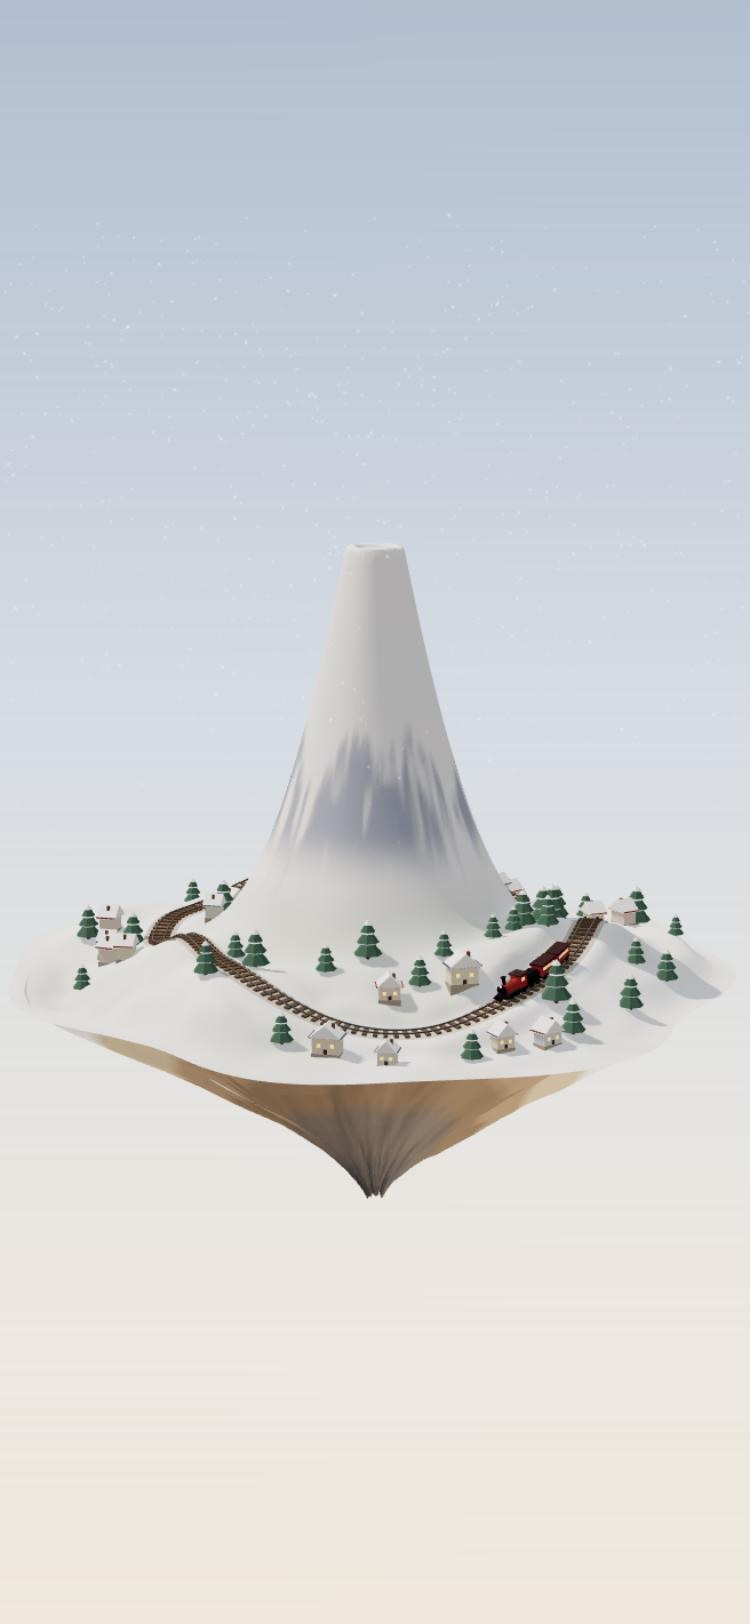
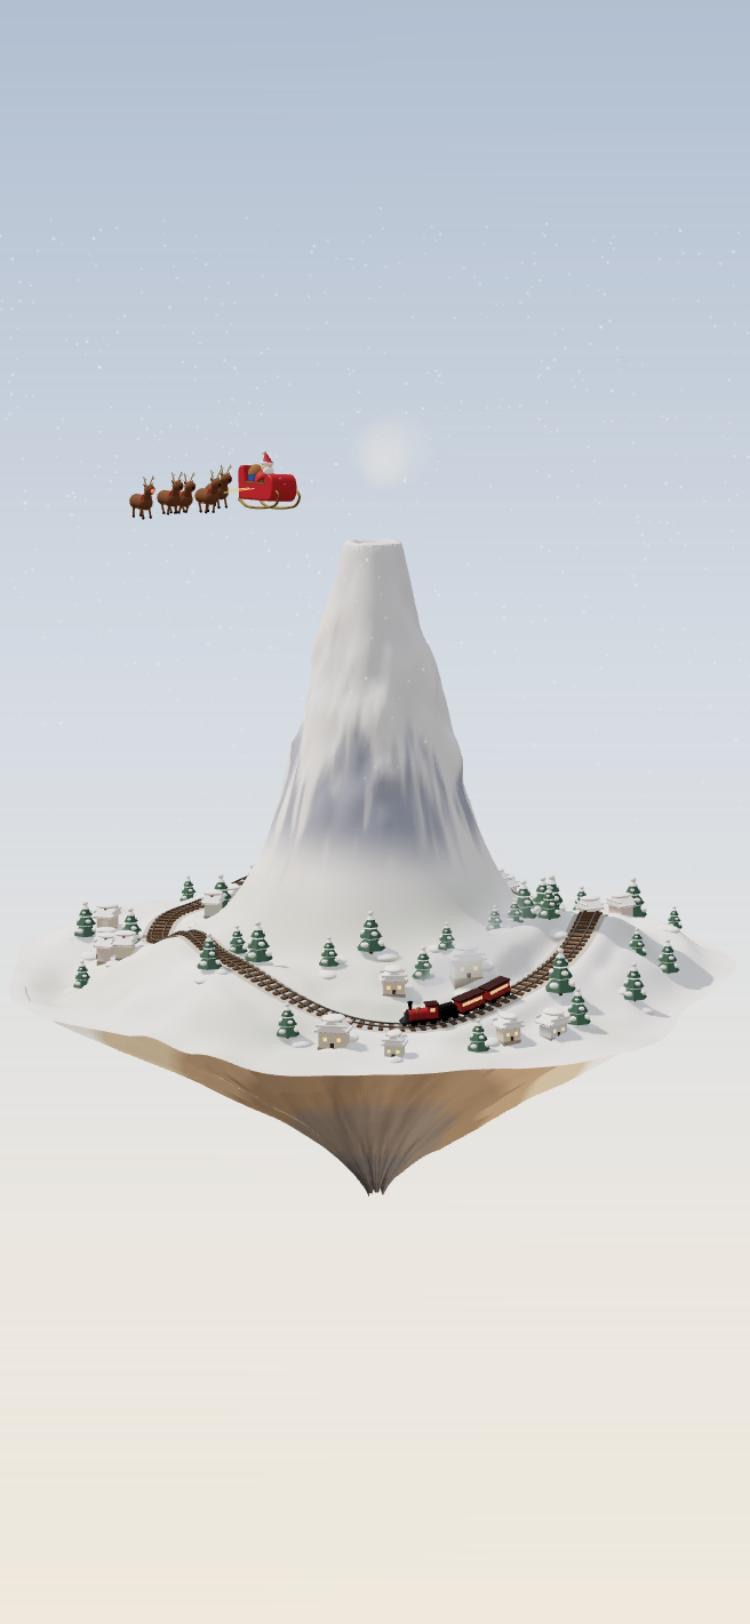
feat: 설산 기차 — 더 소복한 눈(둥근 눈 덩어리·지붕 눈 이불·소나무 눈 뭉치·눈 더미) · 하늘에 루돌프가 끄는 산타 썰매(끌어서 날리기 · 누르면 선물이 눈 위로) · 3D 홈 「🎁 선물 내리기」

diff --git a/public/snow-peak/index.html b/public/snow-peak/index.html
@@ -46,9 +46,9 @@
   <div class="cap">Weather &amp; rails</div>
   <label class="sl">Snowfall <input id="snow" type="range" min="0" max="1" step="0.01" value="0.6"></label>
   <label class="sl">Train speed <input id="speed" type="range" min="0" max="1" step="0.01" value="0.45"></label>
-  <div class="btns"><button id="whistle">Whistle</button><button id="pause">Pause</button><button id="reset">Reset</button></div>
+  <div class="btns"><button id="gift">Gifts</button><button id="whistle">Whistle</button><button id="pause">Pause</button><button id="reset">Reset</button></div>
 </div>
-<div class="notes">Drag to turn the island · pinch or scroll to zoom · tap the train, a house, a pine or the mountain.</div>
+<div class="notes">Drag to turn the island · drag Santa's sleigh to steer it, tap it for gifts · tap the train, a house, a pine or the mountain.</div>
 <div class="fail" id="fail">이 기기에서는 3D 장면을 그릴 수 없어요.</div>
 <script type="module">
 import * as THREE from 'three'
@@ -135,9 +135,11 @@ let mountain
     let x = Math.cos(a) * r, z = Math.sin(a) * r
     // 꼭대기로 갈수록 볼록볼록 쌓인 눈 덩어리 — 둥근 혹을 바깥으로 밀어낸다(위로 갈수록 크게)
     const sx = Math.cos(a) * r, sz = Math.sin(a) * r
-    const lump = sst(0.38, 0.8, vnoise3(sx * 2.3, y0 * 1.5, sz * 2.3)) * 0.62 + sst(0.4, 0.82, vnoise3(sx * 4.6 + 3, y0 * 3.0 + 1, sz * 4.6)) * 0.38
-    const amp = sst(3.0, 8.2, y0) * (1 - sst(0.25, 0.62, 0.62 - r) * 0.7) * 0.34
-    const y = y0 + amp * lump * 0.35
+    const lump = sst(0.32, 0.86, vnoise3(sx * 1.6, y0 * 1.05, sz * 1.6)) * 0.72 + sst(0.38, 0.84, vnoise3(sx * 3.4 + 3, y0 * 2.2 + 1, sz * 3.4)) * 0.28
+    const amp = sst(2.6, 7.4, y0) * sst(0.5, 2.0, r) * 0.5   // 위로 갈수록 크게 — 다만 봉우리가 가늘어지는 곳에선 작게(삐뚤어지지 않게)
+    const nearTrack = 1 - sst(0.45, 1.0, Math.abs(r - trackR(a)))
+    const pillow = sst(0.4, 0.85, vnoise3(sx * 0.9 + 7, 0.5, sz * 0.9)) * (1 - sst(2.4, 3.4, y0)) * (1 - nearTrack) * sst(3.4, 4.2, r) * 0.13  // 자락의 소복한 둔덕
+    const y = y0 + amp * lump * 0.5 + pillow
     if (r > 0.05) { const k = (r + amp * lump) / r; x *= k; z *= k }
     pos.push(x, y, z)
     // 색 — 뽀얀 눈이 기본. 봉우리 가운데엔 옅은 푸른 바위 줄기, 자락엔 연한 풀·마을 땅 얼룩
@@ -204,6 +206,10 @@ function house(x, z, rot, wall, sc) {
   const roofShape = new THREE.Shape(); roofShape.moveTo(-w / 2 - 0.08, 0); roofShape.lineTo(0, 0.4); roofShape.lineTo(w / 2 + 0.08, 0); roofShape.lineTo(-w / 2 - 0.08, 0)
   const roof = new THREE.Mesh(new THREE.ExtrudeGeometry(roofShape, { depth: d + 0.16, bevelEnabled: true, bevelThickness: 0.03, bevelSize: 0.03, bevelSegments: 2 }), new THREE.MeshStandardMaterial({ color: '#fdfdfe', roughness: 0.75 }))
   roof.position.set(0, h, -(d + 0.16) / 2); roof.castShadow = true; g.add(roof)
+  const snowMat = new THREE.MeshStandardMaterial({ color: '#fdfdff', roughness: 0.7 })
+  const ridge = new THREE.Mesh(new THREE.SphereGeometry(1, 18, 10), snowMat); ridge.scale.set(w * 0.42, 0.1, (d + 0.2) * 0.56); ridge.position.y = h + 0.37; ridge.castShadow = true; g.add(ridge)
+  for (const zz of [-(d + 0.16) / 2 - 0.01, (d + 0.16) / 2 + 0.01]) { const roll = new THREE.Mesh(new THREE.CapsuleGeometry(0.05, w + 0.06, 4, 10), snowMat); roll.rotation.z = Math.PI / 2; roll.position.set(0, h + 0.2, zz); roll.scale.set(1, 1, 0.8); g.add(roll) }
+  for (const sx of [-1, 1]) { const side = new THREE.Mesh(new THREE.CapsuleGeometry(0.05, d + 0.1, 4, 10), snowMat); side.rotation.x = Math.PI / 2; side.position.set(sx * (w / 2 + 0.06), h + 0.03, 0); g.add(side) }
   const eave = new THREE.Mesh(new THREE.BoxGeometry(w + 0.2, 0.05, d + 0.18), new THREE.MeshStandardMaterial({ color: hash(x, 5) > 0.5 ? '#9a4a3c' : '#5f6f8a' })); eave.position.y = h + 0.01; g.add(eave)
   const winMat = new THREE.MeshStandardMaterial({ color: '#ffd98a', emissive: '#ffb04a', emissiveIntensity: 0.9 })
   for (const sx of [-w / 4, w / 4]) { const win = new THREE.Mesh(new THREE.PlaneGeometry(0.13, 0.13), winMat); win.position.set(sx, h * 0.55, d / 2 + 0.002); g.add(win) }
@@ -220,7 +226,9 @@ function pine(x, z, s) {
   const green = new THREE.MeshStandardMaterial({ color: '#4d7563', roughness: 0.9, flatShading: true }), white = new THREE.MeshStandardMaterial({ color: '#fbfcfd', roughness: 0.8, flatShading: true })
   ;[[0.42, 0.55, 0.42], [0.33, 0.45, 0.72], [0.22, 0.36, 0.98]].forEach(([r, h, y]) => {
     const c = new THREE.Mesh(new THREE.ConeGeometry(r, h, 7), green); c.position.y = y; c.castShadow = true; g.add(c)
-    const cap = new THREE.Mesh(new THREE.ConeGeometry(r * 0.62, h * 0.45, 7), white); cap.position.y = y + h * 0.29; g.add(cap) })
+    const cap = new THREE.Mesh(new THREE.ConeGeometry(r * 0.62, h * 0.45, 7), white); cap.position.y = y + h * 0.29; g.add(cap)
+    for (let q = 0; q < 3; q++) { const b = new THREE.Mesh(new THREE.SphereGeometry(r * 0.32, 10, 8), white); const qa = q / 3 * Math.PI * 2 + y * 3; b.position.set(Math.cos(qa) * r * 0.62, y - h * 0.22, Math.sin(qa) * r * 0.62); b.scale.y = 0.62; g.add(b) } })
+  const top = new THREE.Mesh(new THREE.SphereGeometry(0.09, 10, 8), white); top.position.y = 1.18; top.scale.y = 0.8; g.add(top)
   g.userData = { kind: 'pine', shake: 0 }
   g.traverse(o => { o.userData.root = g }); clickables.push(g); island.add(g); placed.push([x, z, 0.3 * s]); pines.push(g)
 }
@@ -234,6 +242,15 @@ const walls = ['#f1e4d3', '#e3ebf1', '#f5e2d8', '#e9ecdf', '#f4ead2']
 for (let i = 0, tries = 0; i < 42 && tries < 1400; tries++) {
   const a = hash(tries, 11) * Math.PI * 2, r = 3.1 + hash(tries, 23) * (edge(a) * 0.9 - 3.1), x = Math.cos(a) * r, z = Math.sin(a) * r, s = 0.42 + hash(tries, 37) * 0.38
   if (free(x, z, 0.24 * s)) { pine(x, z, s); i++ } }
+
+// 소복한 눈 더미 — 집·나무 발치와 자락 곳곳에 둥글게
+{ const N = 90, m = new THREE.InstancedMesh(new THREE.SphereGeometry(1, 16, 10), new THREE.MeshStandardMaterial({ color: '#fdfdff', roughness: 0.85 }), N), o = new THREE.Object3D()
+  let k = 0
+  const put = (x, z, sx, sy) => { if (k >= N) return; const a = Math.atan2(z, x), d = Math.hypot(x, z); if (Math.abs(d - trackR(a)) < 0.5 || d > edge(a) * 0.93 || d < 3.0) return
+    o.position.set(x, groundAt(x, z) - sy * 0.25, z); o.scale.set(sx, sy, sx * (0.7 + hash(x, z) * 0.5)); o.rotation.set(0, hash(z, x) * 3, 0); o.updateMatrix(); m.setMatrixAt(k++, o.matrix) }
+  for (const p of placed) for (let q = 0; q < 2; q++) { const qa = hash(p[0] * 7, q) * Math.PI * 2, rr = p[2] * 0.9 + 0.12; put(p[0] + Math.cos(qa) * rr, p[1] + Math.sin(qa) * rr, 0.16 + hash(q, p[0]) * 0.14, 0.07 + hash(p[1], q) * 0.05) }
+  for (let t = 0; k < N && t < 400; t++) { const a = hash(t, 91) * Math.PI * 2, r = 3.2 + hash(t, 93) * 4.4; put(Math.cos(a) * r, Math.sin(a) * r, 0.25 + hash(t, 95) * 0.35, 0.06 + hash(t, 97) * 0.07) }
+  m.count = k; m.receiveShadow = true; island.add(m) }
 
 // ── 붉은 옛날 증기 기차 ──
 const train = new THREE.Group(); island.add(train)
@@ -334,19 +351,155 @@ function reset() { cam.az = 0.55; cam.el = 0.2; cam.dist = 1; setSnow(0.6); setS
 document.getElementById('snow').oninput = e => setSnow(+e.target.value)
 document.getElementById('speed').oninput = e => setSpeed(+e.target.value)
 document.getElementById('whistle').onclick = whistle
+document.getElementById('gift').onclick = () => giftShower()
 document.getElementById('reset').onclick = reset
 document.getElementById('pause').onclick = e => { st.paused = !st.paused; e.target.textContent = st.paused ? 'Play' : 'Pause' }
 addEventListener('message', e => { if (e.origin !== location.origin) return; const m = e.data || {}
   if (typeof m.snow === 'number') setSnow(m.snow); if (typeof m.speed === 'number') setSpeed(m.speed)
-  if (m.cmd === 'whistle') whistle(); if (m.cmd === 'reset') reset(); if (m.cmd === 'pause') st.paused = !st.paused })
+  if (m.cmd === 'whistle') whistle(); if (m.cmd === 'gift') giftShower(); if (m.cmd === 'reset') reset(); if (m.cmd === 'pause') st.paused = !st.paused })
 addEventListener('keydown', e => { if (e.key === ' ') st.paused = !st.paused; if (e.key === 'w' || e.key === 'W') whistle(); if (e.key === 'r' || e.key === 'R') reset() })
 
 // ── 누르기·끌기 ──
 const ray = new THREE.Raycaster(), ndc = new THREE.Vector2(), pointers = new Map()
+// ── 하늘의 산타 썰매 — 루돌프(빨간 코)가 앞장서고 순록 넷이 붉은 썰매를 끈다 ──
+// 혼자서는 산을 크게 돌고, 끌면 손가락을 따라 날고(놓으면 천천히 제 길로), 누르면 선물을 떨어뜨린다.
+const sleighTeam = new THREE.Group(); world.add(sleighTeam)
+const TEAM_SCALE = 1.25
+const fur = new THREE.MeshStandardMaterial({ color: '#8a5a3c', roughness: 0.85 }), furLight = new THREE.MeshStandardMaterial({ color: '#d9b896', roughness: 0.9 })
+const antlerMat = new THREE.MeshStandardMaterial({ color: '#cdb594', roughness: 0.8 }), hoof = new THREE.MeshStandardMaterial({ color: '#3a2a22' })
+const santaRed = new THREE.MeshStandardMaterial({ color: '#d42a35', roughness: 0.55 }), white2 = new THREE.MeshStandardMaterial({ color: '#ffffff', roughness: 0.7 })
+const goldM = new THREE.MeshStandardMaterial({ color: '#e0b84f', metalness: 0.7, roughness: 0.3 })
+function reindeer(rudolph) {
+  const g = new THREE.Group(), legs = []
+  const body = new THREE.Mesh(new THREE.CapsuleGeometry(0.11, 0.26, 6, 12), fur); body.rotation.z = Math.PI / 2; g.add(body)
+  const belly = new THREE.Mesh(new THREE.SphereGeometry(0.1, 10, 8), furLight); belly.scale.set(1.3, 0.6, 0.9); belly.position.set(0, -0.05, 0); g.add(belly)
+  const neck = new THREE.Mesh(new THREE.CylinderGeometry(0.05, 0.07, 0.18, 8), fur); neck.position.set(0.2, 0.1, 0); neck.rotation.z = -0.6; g.add(neck)
+  const head = new THREE.Mesh(new THREE.SphereGeometry(0.075, 12, 10), fur); head.scale.set(1.35, 1, 1); head.position.set(0.29, 0.2, 0); g.add(head)
+  const nose = new THREE.Mesh(new THREE.SphereGeometry(rudolph ? 0.035 : 0.022, 10, 8), rudolph ? new THREE.MeshStandardMaterial({ color: '#ff3b3b', emissive: '#ff2020', emissiveIntensity: 1.6 }) : hoof)
+  nose.position.set(0.38, 0.19, 0); g.add(nose)
+  for (const zz of [-0.04, 0.04]) { const eye = new THREE.Mesh(new THREE.SphereGeometry(0.012, 6, 6), hoof); eye.position.set(0.33, 0.24, zz); g.add(eye)
+    const ear = new THREE.Mesh(new THREE.ConeGeometry(0.02, 0.06, 6), fur); ear.position.set(0.25, 0.27, zz * 1.6); ear.rotation.x = zz > 0 ? 0.6 : -0.6; g.add(ear)
+    const an = new THREE.Group(); an.position.set(0.26, 0.27, zz * 0.8)
+    const s1 = new THREE.Mesh(new THREE.CylinderGeometry(0.008, 0.012, 0.14, 5), antlerMat); s1.position.y = 0.07; s1.rotation.z = -0.25; an.add(s1)
+    const s2 = new THREE.Mesh(new THREE.CylinderGeometry(0.006, 0.008, 0.07, 5), antlerMat); s2.position.set(0.04, 0.09, 0); s2.rotation.z = -1.0; an.add(s2)
+    an.rotation.x = zz > 0 ? 0.35 : -0.35; g.add(an) }
+  const tail = new THREE.Mesh(new THREE.SphereGeometry(0.03, 8, 6), white2); tail.position.set(-0.24, 0.05, 0); g.add(tail)
+  for (const [lx, lz] of [[0.12, -0.06], [0.12, 0.06], [-0.12, -0.06], [-0.12, 0.06]]) {
+    const leg = new THREE.Group(); leg.position.set(lx, -0.06, lz)
+    const l = new THREE.Mesh(new THREE.CylinderGeometry(0.018, 0.015, 0.16, 6), fur); l.position.y = -0.08; leg.add(l)
+    const h = new THREE.Mesh(new THREE.SphereGeometry(0.02, 6, 6), hoof); h.position.y = -0.16; leg.add(h)
+    g.add(leg); legs.push(leg) }
+  const collar = new THREE.Mesh(new THREE.TorusGeometry(0.075, 0.015, 6, 14), santaRed); collar.position.set(0.17, 0.06, 0); collar.rotation.y = Math.PI / 2; collar.rotation.x = 0.6; g.add(collar)
+  const bell = new THREE.Mesh(new THREE.SphereGeometry(0.022, 8, 6), goldM); bell.position.set(0.21, 0.0, 0); g.add(bell)
+  g.userData.legs = legs; g.scale.setScalar(TEAM_SCALE)
+  g.traverse(o => { if (o.isMesh) o.castShadow = true; o.userData.root = sleighTeam }); sleighTeam.add(g); return g
+}
+const deer = [reindeer(true), reindeer(false), reindeer(false), reindeer(false), reindeer(false)] // 맨 앞 하나(루돌프) + 둘씩 두 줄
+const sleigh = new THREE.Group()
+{ const sh = new THREE.Shape(); sh.moveTo(-0.42, 0); sh.lineTo(0.32, 0); sh.quadraticCurveTo(0.46, 0, 0.46, 0.14); sh.quadraticCurveTo(0.46, 0.3, 0.34, 0.32); sh.lineTo(0.22, 0.2); sh.lineTo(-0.3, 0.2); sh.lineTo(-0.36, 0.42); sh.quadraticCurveTo(-0.48, 0.44, -0.46, 0.3); sh.lineTo(-0.42, 0)
+  const bodyG = new THREE.ExtrudeGeometry(sh, { depth: 0.36, bevelEnabled: true, bevelThickness: 0.03, bevelSize: 0.03, bevelSegments: 3 }); bodyG.translate(0, 0, -0.18)
+  const body = new THREE.Mesh(bodyG, santaRed); body.position.y = 0.08; sleigh.add(body)
+  const trim = new THREE.Mesh(new THREE.BoxGeometry(0.62, 0.025, 0.42), goldM); trim.position.set(-0.04, 0.29, 0); sleigh.add(trim)
+  for (const zz of [-0.17, 0.17]) { const pts = [new THREE.Vector3(-0.5, 0.05, zz), new THREE.Vector3(-0.3, -0.04, zz), new THREE.Vector3(0.3, -0.04, zz), new THREE.Vector3(0.55, 0.02, zz), new THREE.Vector3(0.62, 0.14, zz), new THREE.Vector3(0.54, 0.2, zz)]
+    sleigh.add(new THREE.Mesh(new THREE.TubeGeometry(new THREE.CatmullRomCurve3(pts), 24, 0.018, 6), goldM)) }
+  // 산타 할아버지
+  const santa = new THREE.Group(); santa.position.set(-0.06, 0.32, 0)
+  const sb = new THREE.Mesh(new THREE.SphereGeometry(0.16, 14, 12), santaRed); sb.scale.set(1, 1.05, 1); santa.add(sb)
+  const belt = new THREE.Mesh(new THREE.TorusGeometry(0.155, 0.02, 6, 20), new THREE.MeshStandardMaterial({ color: '#222' })); belt.rotation.x = Math.PI / 2; belt.position.y = -0.02; santa.add(belt)
+  const face = new THREE.Mesh(new THREE.SphereGeometry(0.085, 14, 12), new THREE.MeshStandardMaterial({ color: '#f4cfb2', roughness: 0.7 })); face.position.set(0.02, 0.2, 0); santa.add(face)
+  const beard = new THREE.Mesh(new THREE.SphereGeometry(0.08, 12, 10), white2); beard.scale.set(0.8, 1, 1.05); beard.position.set(0.07, 0.15, 0); santa.add(beard)
+  const cheekN = new THREE.Mesh(new THREE.SphereGeometry(0.018, 8, 6), new THREE.MeshStandardMaterial({ color: '#e8908a' })); cheekN.position.set(0.1, 0.21, 0); santa.add(cheekN)
+  const hat = new THREE.Mesh(new THREE.ConeGeometry(0.08, 0.2, 14), santaRed); hat.position.set(0.0, 0.33, 0); hat.rotation.z = 0.5; santa.add(hat)
+  const brim = new THREE.Mesh(new THREE.TorusGeometry(0.075, 0.025, 8, 18), white2); brim.rotation.x = Math.PI / 2; brim.position.set(0.02, 0.26, 0); santa.add(brim)
+  const pom = new THREE.Mesh(new THREE.SphereGeometry(0.03, 8, 6), white2); pom.position.set(-0.09, 0.4, 0); santa.add(pom)
+  for (const zz of [-0.15, 0.15]) { const arm = new THREE.Mesh(new THREE.CapsuleGeometry(0.035, 0.12, 4, 8), santaRed); arm.position.set(0.1, 0.03, zz); arm.rotation.z = -1.1; santa.add(arm)
+    const mit = new THREE.Mesh(new THREE.SphereGeometry(0.035, 8, 6), new THREE.MeshStandardMaterial({ color: '#2f6b4f' })); mit.position.set(0.18, 0.0, zz); santa.add(mit) }
+  sleigh.add(santa); sleigh.userData.santa = santa
+  // 선물 자루
+  const sack = new THREE.Mesh(new THREE.SphereGeometry(0.15, 12, 10), new THREE.MeshStandardMaterial({ color: '#a8743f', roughness: 0.95 })); sack.scale.set(1, 1.15, 1); sack.position.set(-0.32, 0.38, 0); sleigh.add(sack)
+  for (const [gx, gz, c] of [[-0.22, 0.12, '#3c7be0'], [-0.36, -0.12, '#2f9e6b']]) { const b = new THREE.Mesh(new THREE.BoxGeometry(0.09, 0.09, 0.09), new THREE.MeshStandardMaterial({ color: c })); b.position.set(gx, 0.36, gz); b.rotation.y = 0.5; sleigh.add(b) }
+  sleigh.scale.setScalar(TEAM_SCALE)
+  sleigh.traverse(o => { if (o.isMesh) o.castShadow = true; o.userData.root = sleighTeam }); sleighTeam.add(sleigh) }
+const reins = new THREE.Line(new THREE.BufferGeometry().setFromPoints(Array.from({ length: 12 }, () => new THREE.Vector3())), new THREE.LineBasicMaterial({ color: '#e0b84f' })); world.add(reins)
+sleighTeam.userData.kind = 'sleigh'; clickables.push(sleighTeam)
+// 날기 — 맨 앞(루돌프)이 길을 정하고 나머지는 지나간 자리를 따라온다
+const fly = { phi: 0.8, lead: new THREE.Vector3(), vel: new THREE.Vector3(), trail: [], drag: null, free: 0 }
+const SKY_R = 8.4, SKY_H = 10.2
+const orbitAt = (phi, t) => new THREE.Vector3(Math.cos(phi) * SKY_R, SKY_H + Math.sin(t * 0.0009) * 0.4 + Math.sin(phi * 2) * 0.45, Math.sin(phi) * SKY_R)
+fly.lead.copy(orbitAt(fly.phi, 0))
+for (let i = 0; i < 160; i++) fly.trail.push(orbitAt(fly.phi - i * 0.012, 0))
+const SPOT = [0, 0.75, 0.75, 1.5, 1.5, 2.55] // 루돌프 · 두 줄 · 썰매(길 따라 떨어진 거리)
+const SIDE = [0, -0.22, 0.22, -0.22, 0.22, 0]
+function trailPoint(dist) { // 맨 앞에서 dist 만큼 뒤의 자리와 그 방향
+  let acc = 0
+  for (let i = 1; i < fly.trail.length; i++) { const a = fly.trail[i - 1], b = fly.trail[i], l = a.distanceTo(b)
+    if (acc + l >= dist) { const t = (dist - acc) / Math.max(1e-6, l), p = a.clone().lerp(b, t), dir = a.clone().sub(b).normalize(); return { p, dir } } acc += l }
+  const a = fly.trail[fly.trail.length - 2], b = fly.trail[fly.trail.length - 1]; return { p: b.clone(), dir: a.clone().sub(b).normalize() }
+}
+const _up2 = new THREE.Vector3(0, 1, 0), _s2 = new THREE.Vector3(), _y2 = new THREE.Vector3(), _m2 = new THREE.Matrix4()
+function orient(obj, dir) { _s2.crossVectors(dir, _up2).normalize(); _y2.crossVectors(_s2, dir).normalize(); _m2.makeBasis(dir, _y2, _s2.clone().negate()); obj.quaternion.setFromRotationMatrix(_m2) }
+// 선물
+const gifts = [], GIFT_COLS = [['#d42a35', '#f4d35e'], ['#3c7be0', '#ffffff'], ['#2f9e6b', '#d42a35'], ['#f4b6cb', '#ffffff'], ['#f4d35e', '#3c7be0'], ['#9b7be0', '#f4d35e']]
+function dropGift() {
+  if (gifts.length >= 36) { const old = gifts.shift(); island.remove(old.g) }
+  const [c1, c2] = GIFT_COLS[(Math.random() * GIFT_COLS.length) | 0], s = 0.17 + Math.random() * 0.08
+  const g = new THREE.Group(), box = new THREE.Mesh(new THREE.BoxGeometry(s, s * 0.85, s), new THREE.MeshStandardMaterial({ color: c1, roughness: 0.6 })); g.add(box)
+  const rib = new THREE.MeshStandardMaterial({ color: c2, roughness: 0.5 })
+  const r1 = new THREE.Mesh(new THREE.BoxGeometry(s * 1.02, s * 0.87, s * 0.18), rib), r2 = new THREE.Mesh(new THREE.BoxGeometry(s * 0.18, s * 0.87, s * 1.02), rib); g.add(r1, r2)
+  for (const sgn of [-1, 1]) { const bow = new THREE.Mesh(new THREE.TorusGeometry(s * 0.16, s * 0.05, 6, 10), rib); bow.position.set(sgn * s * 0.12, s * 0.5, 0); bow.rotation.y = Math.PI / 2; bow.rotation.x = sgn * 0.5; g.add(bow) }
+  g.traverse(o => { if (o.isMesh) o.castShadow = true })
+  const from = sleigh.getWorldPosition(new THREE.Vector3()); from.y -= 0.25; island.worldToLocal(from); g.position.copy(from)
+  g.rotation.set(Math.random() * 3, Math.random() * 3, Math.random() * 3); island.add(g)
+  // 썰매는 섬 가장자리 바깥을 날 때가 많다 — 산 쪽으로 살짝 던져 눈 위에 떨어지게
+  const inward = new THREE.Vector3(-from.x, 0, -from.z), dist = inward.length(); inward.normalize()
+  const want = Math.max(0, dist - (2.6 + Math.random() * 4.2)) / 1.7     // 1.7초쯤 떨어지는 동안 갈 거리
+  const vel = inward.multiplyScalar(want).add(new THREE.Vector3((Math.random() - 0.5) * 0.8, 0.6, (Math.random() - 0.5) * 0.8))
+  gifts.push({ g, v: vel, spin: new THREE.Vector3(Math.random() * 4, Math.random() * 4, Math.random() * 4), landed: false, half: s * 0.42, age: 0 })
+  sfx('pop', { pitch: 1.2 })
+}
+function giftShower() { for (let k = 0; k < 4; k++) setTimeout(dropGift, k * 140) }
+function stepSanta(dt, now) {
+  const run = !st.paused
+  if (fly.drag) { fly.lead.lerp(fly.drag.target, 1 - Math.exp(-dt * 8)) }
+  else {
+    if (run) fly.phi += dt * 0.16
+    const home = orbitAt(fly.phi, now)
+    if (fly.free > 0) { fly.free = Math.max(0, fly.free - dt * 0.35); fly.lead.lerp(home, 1 - Math.exp(-dt * (0.6 + (1 - fly.free) * 3))) }
+    else fly.lead.copy(home)
+  }
+  const head = fly.trail[0]; if (head.distanceToSquared(fly.lead) > 0.0004) { fly.trail.unshift(fly.lead.clone()); if (fly.trail.length > 220) fly.trail.pop() }
+  const t = now * 0.012
+  for (let i = 0; i < deer.length; i++) { const { p, dir } = trailPoint(SPOT[i]); _s2.crossVectors(dir, _up2).normalize()
+    deer[i].position.copy(p).addScaledVector(_s2, SIDE[i]); deer[i].position.y += Math.sin(t + i * 1.3) * 0.05; orient(deer[i], dir)
+    deer[i].userData.legs.forEach((l, j) => { l.rotation.z = Math.sin(t * 1.4 + i + (j < 2 ? 0 : Math.PI)) * 0.6 }) }
+  const sp = trailPoint(SPOT[5]); sleigh.position.copy(sp.p); sleigh.position.y -= 0.05; orient(sleigh, sp.dir)
+  sleigh.userData.santa.rotation.z = Math.sin(t * 0.5) * 0.06
+  const r = reins.geometry.attributes.position, fr = sleigh.localToWorld(new THREE.Vector3(0.5, 0.3, 0))
+  for (let i = 0; i < 12; i++) { const k = i / 11, tp = deer[1 + (i % 4)].position; r.setXYZ(i, fr.x + (tp.x - fr.x) * (i % 2 ? 1 : 0), fr.y + (tp.y - fr.y) * (i % 2 ? 1 : 0), fr.z + (tp.z - fr.z) * (i % 2 ? 1 : 0)) }
+  r.needsUpdate = true; reins.geometry.computeBoundingSphere()
+  // 선물 떨어지기 → 눈 위에 톡
+  for (let i = gifts.length - 1; i >= 0; i--) { const q = gifts[i]; q.age += dt
+    if (!q.landed) { q.v.y -= 6.5 * dt; q.g.position.addScaledVector(q.v, dt); q.g.rotation.x += q.spin.x * dt; q.g.rotation.y += q.spin.y * dt; q.g.rotation.z += q.spin.z * dt
+      const p = q.g.position, rr = Math.hypot(p.x, p.z), a = Math.atan2(p.z, p.x)
+      if (rr < edge(a) * 0.97) { const gy = groundAt(p.x, p.z) + q.half; if (p.y <= gy) { p.y = gy; q.landed = true; q.g.rotation.set(0, q.g.rotation.y, 0); q.squash = 1; sfx('thud', { s: 0.35 }) } }
+      else if (p.y < -8) { island.remove(q.g); gifts.splice(i, 1); continue } }
+    else if (q.squash > 0) { q.squash = Math.max(0, q.squash - dt * 4); q.g.scale.set(1 + q.squash * 0.25, 1 - q.squash * 0.3, 1 + q.squash * 0.25) }
+    if (q.age > 40) { const f = Math.min(1, (q.age - 40) / 2); q.g.scale.setScalar(1 - f); if (f >= 1) { island.remove(q.g); gifts.splice(i, 1) } } }
+}
+// 끌기 — 손가락이 가리키는 곳(썰매 높이의 화면 평면)으로 루돌프가 날아간다
+const dragPlane = new THREE.Plane(), _hit = new THREE.Vector3()
+function sleighDragTo(clientX, clientY) {
+  ndc.set(clientX / innerWidth * 2 - 1, -(clientY / innerHeight) * 2 + 1); ray.setFromCamera(ndc, camera)
+  if (ray.ray.intersectPlane(dragPlane, _hit)) { _hit.y = Math.min(13.5, Math.max(6.5, _hit.y)); const rr = Math.hypot(_hit.x, _hit.z); if (rr > 13) _hit.multiplyScalar(13 / rr); fly.drag.target.copy(_hit) }
+}
+
 const cv = renderer.domElement
 cv.addEventListener('pointerdown', e => {
   cv.setPointerCapture(e.pointerId); pointers.set(e.pointerId, { x: e.clientX, y: e.clientY })
   cam.drag = { x: e.clientX, y: e.clientY, az: cam.az, el: cam.el, moved: 0, t: performance.now() }
+  if (pointers.size === 1) { ndc.set(e.clientX / innerWidth * 2 - 1, -(e.clientY / innerHeight) * 2 + 1); ray.setFromCamera(ndc, camera)
+    const h = ray.intersectObject(sleighTeam, true)[0]
+    if (h) { const n = new THREE.Vector3(); camera.getWorldDirection(n); dragPlane.setFromNormalAndCoplanarPoint(n.negate(), fly.lead); fly.drag = { target: fly.lead.clone(), start: performance.now() }; cam.drag.sleigh = true } }
   if (pointers.size === 2) { const [a, b] = [...pointers.values()]; cam.pinch = { d: Math.hypot(a.x - b.x, a.y - b.y), dist: cam.dist } }
   cv.classList.add('grabbing'); cam.autoz = 0
   if (EMBED && window.parent !== window) { try { window.parent.postMessage({ scene: 'touch' }, location.origin) } catch {} }
@@ -356,11 +509,13 @@ cv.addEventListener('pointermove', e => {
   if (cam.pinch && pointers.size === 2) { const [a, b] = [...pointers.values()]; cam.dist = Math.min(1.45, Math.max(0.6, cam.pinch.dist * cam.pinch.d / Math.max(20, Math.hypot(a.x - b.x, a.y - b.y)))); cam.drag.moved = 99; return }
   if (!cam.drag) return
   const dx = e.clientX - cam.drag.x, dy = e.clientY - cam.drag.y; cam.drag.moved = Math.max(cam.drag.moved, Math.hypot(dx, dy))
+  if (cam.drag.sleigh) { if (cam.drag.moved > 6) sleighDragTo(e.clientX, e.clientY); return }
   cam.az = cam.drag.az + dx * 0.006; cam.el = Math.min(0.62, Math.max(0.05, cam.drag.el + dy * 0.004))
 })
 const up = e => {
   pointers.delete(e.pointerId); if (pointers.size < 2) cam.pinch = null
   if (cam.drag && cam.drag.moved < 6 && performance.now() - cam.drag.t < 450) tap(e)
+  if (fly.drag && pointers.size === 0) { fly.drag = null; fly.free = 1; fly.phi = Math.atan2(fly.lead.z, fly.lead.x) }
   if (pointers.size === 0) { cam.drag = null; cv.classList.remove('grabbing') }
 }
 cv.addEventListener('pointerup', up); cv.addEventListener('pointercancel', up)
@@ -369,7 +524,8 @@ function tap(e) {
   ndc.set(e.clientX / innerWidth * 2 - 1, -(e.clientY / innerHeight) * 2 + 1); ray.setFromCamera(ndc, camera)
   const hit = ray.intersectObjects(clickables, true)[0]; if (!hit) return
   const root = hit.object.userData.root || hit.object, kind = root.userData.kind
-  if (kind === 'train') whistle()
+  if (kind === 'sleigh') { giftShower(); sfx('chime') }
+  else if (kind === 'train') whistle()
   else if (kind === 'house') { const on = root.userData.win.emissiveIntensity > 0.3; root.userData.win.emissiveIntensity = on ? 0.05 : 1.2; root.userData.win.color.set(on ? '#7d7a86' : '#ffd27a'); sfx('pop') }
   else if (kind === 'pine') { root.userData.shake = 1; sfx('squish', { s: 0.6 }); for (let k = 0; k < 6; k++) emit('flake', root.position.clone().applyMatrix4(island.matrixWorld).add(new THREE.Vector3((Math.random() - 0.5) * 0.5, 1 + Math.random() * 0.4, (Math.random() - 0.5) * 0.5)), new THREE.Vector3((Math.random() - 0.5) * 0.4, -0.3, (Math.random() - 0.5) * 0.4), 1.1, 0.5) }
   else if (kind === 'mountain') { st.shakeMtn = 1; sfx('drip'); const p = hit.point; for (let k = 0; k < 10; k++) emit('flake', p.clone().add(new THREE.Vector3((Math.random() - 0.5) * 0.6, Math.random() * 0.3, (Math.random() - 0.5) * 0.6)), new THREE.Vector3((Math.random() - 0.5) * 0.8, 0.6 + Math.random() * 0.6, (Math.random() - 0.5) * 0.8), 1.4, 0.7) }
@@ -396,6 +552,7 @@ function loop(now) {
     if (!cam.drag) { cam.autoz = Math.min(1, cam.autoz + dt * 0.3); cam.az += dt * 0.035 * cam.autoz }
   }
   for (const c of cars) placeCar(c.g, st.theta - c.back)
+  stepSanta(dt, now)
   // 기차 연기
   puffT -= dt; if (run && puffT <= 0) { puffT = 0.16 / (0.5 + st.speed); trainPuff() }
   // 집 굴뚝 연기 — 가늘게
@@ -423,7 +580,7 @@ function loop(now) {
   requestAnimationFrame(loop)
 }
 document.addEventListener('visibilitychange', () => { last = performance.now() })
-window.__peak = { st, cam, play: n => (n === 'whistle' ? whistle() : 0), cars: () => cars.map(c => c.g.position.toArray().map(v => +v.toFixed(2))) }
+window.__peak = { gifts: () => gifts.map(q => [q.landed, +q.g.position.y.toFixed(2)]), lead: () => fly.lead.toArray().map(v => +v.toFixed(2)), sleighScreen: () => { const v = sleigh.getWorldPosition(new THREE.Vector3()).project(camera); return [(v.x + 1) / 2 * innerWidth, (1 - v.y) / 2 * innerHeight] }, st, cam, play: n => (n === 'whistle' ? whistle() : 0), cars: () => cars.map(c => c.g.position.toArray().map(v => +v.toFixed(2))) }
 requestAnimationFrame(loop)
 </script>
 </body>

diff --git a/app/castle/page.js b/app/castle/page.js
@@ -396,6 +396,7 @@ export default function CastlePage() {
           <input type="range" min="0" max="1" step="0.01" value={peak.speed} onChange={e => setPeakOpt({ speed: +e.target.value })} style={{ accentColor: '#c8323a' }} />
         </label>
         <div className={s.row} style={{ flexWrap: 'wrap' }}>
+          <button className={`${s.chip} ${s.glass}`} onClick={() => toFrame({ cmd: 'gift' })}>🎁 선물 내리기</button>
           <button className={`${s.chip} ${s.glass}`} onClick={() => toFrame({ cmd: 'whistle' })}>기적 울리기</button>
           <button className={`${s.chip} ${s.glass}`} onClick={() => toFrame({ cmd: 'pause' })}>기차 멈춤·출발</button>
           <button className={`${s.chip} ${s.glass}`} onClick={() => toFrame({ cmd: 'reset' })}>제자리로</button>
@@ -507,7 +508,7 @@ export default function CastlePage() {
       </nav>
 
       <div className={s.howto}><b>How to play</b> — {scene.key === 'peak'
-        ? '기차를 누르면 기적 · 집을 누르면 불 켜고 끄기 · 소나무를 누르면 눈이 털려요 · 끌어서 섬 돌리기 · 꼬집어 확대'
+        ? '산타 썰매를 끌어 하늘을 날기 · 썰매를 누르면 선물이 내려요 · 기차를 누르면 뿌뿌! · 집을 누르면 불 켜고 끄기 · 소나무를 누르면 눈이 털려요 · 빈 곳을 끌어 섬 돌리기'
         : scene.key === 'octopus'
         ? '문어를 톡 치면 움찔 · 머리를 꾹 누르면 납작 · 머리를 끌어 들어 올리기 · 다리를 끌어 늘리기 · 접시를 꾹 누르고 있으면 다리가 손가락을 감아요'
         : scene.embed

diff --git a/lib/castleScenes.js b/lib/castleScenes.js
@@ -11,7 +11,7 @@ export const CASTLE_SCENES = [
   { key: 'octopus', name: '젤리 문어', desc: '접시 위 말랑한 문어', unlock: 8, ready: true, thumb: '/castle-bg/octopus.jpg', thumbPos: 'center 42% / 150% auto',
     embed: '/octopus-jelly/index.html?embed=1' },
   // 설산 기차 = 사용자 스케치(후지산 같은 설산 · 오르내리는 철길 · 붉은 증기 기차 · 작은 마을) — public/snow-peak, 홈에는 ?embed=1
-  { key: 'peak', name: '설산 기차', desc: '설산을 도는 붉은 증기 기차', unlock: 12, ready: true, thumb: '/castle-bg/peak.jpg', thumbPos: 'center 40% / 150% auto',
+  { key: 'peak', name: '설산 기차', desc: '설산을 도는 기차와 산타 썰매', unlock: 12, ready: true, thumb: '/castle-bg/peak.jpg', thumbPos: 'center 40% / 150% auto',
     embed: '/snow-peak/index.html?embed=1' },
   { key: 'scene16', name: '새 장면', desc: '준비 중',            unlock: 16, ready: false, thumb: null },
 ]
